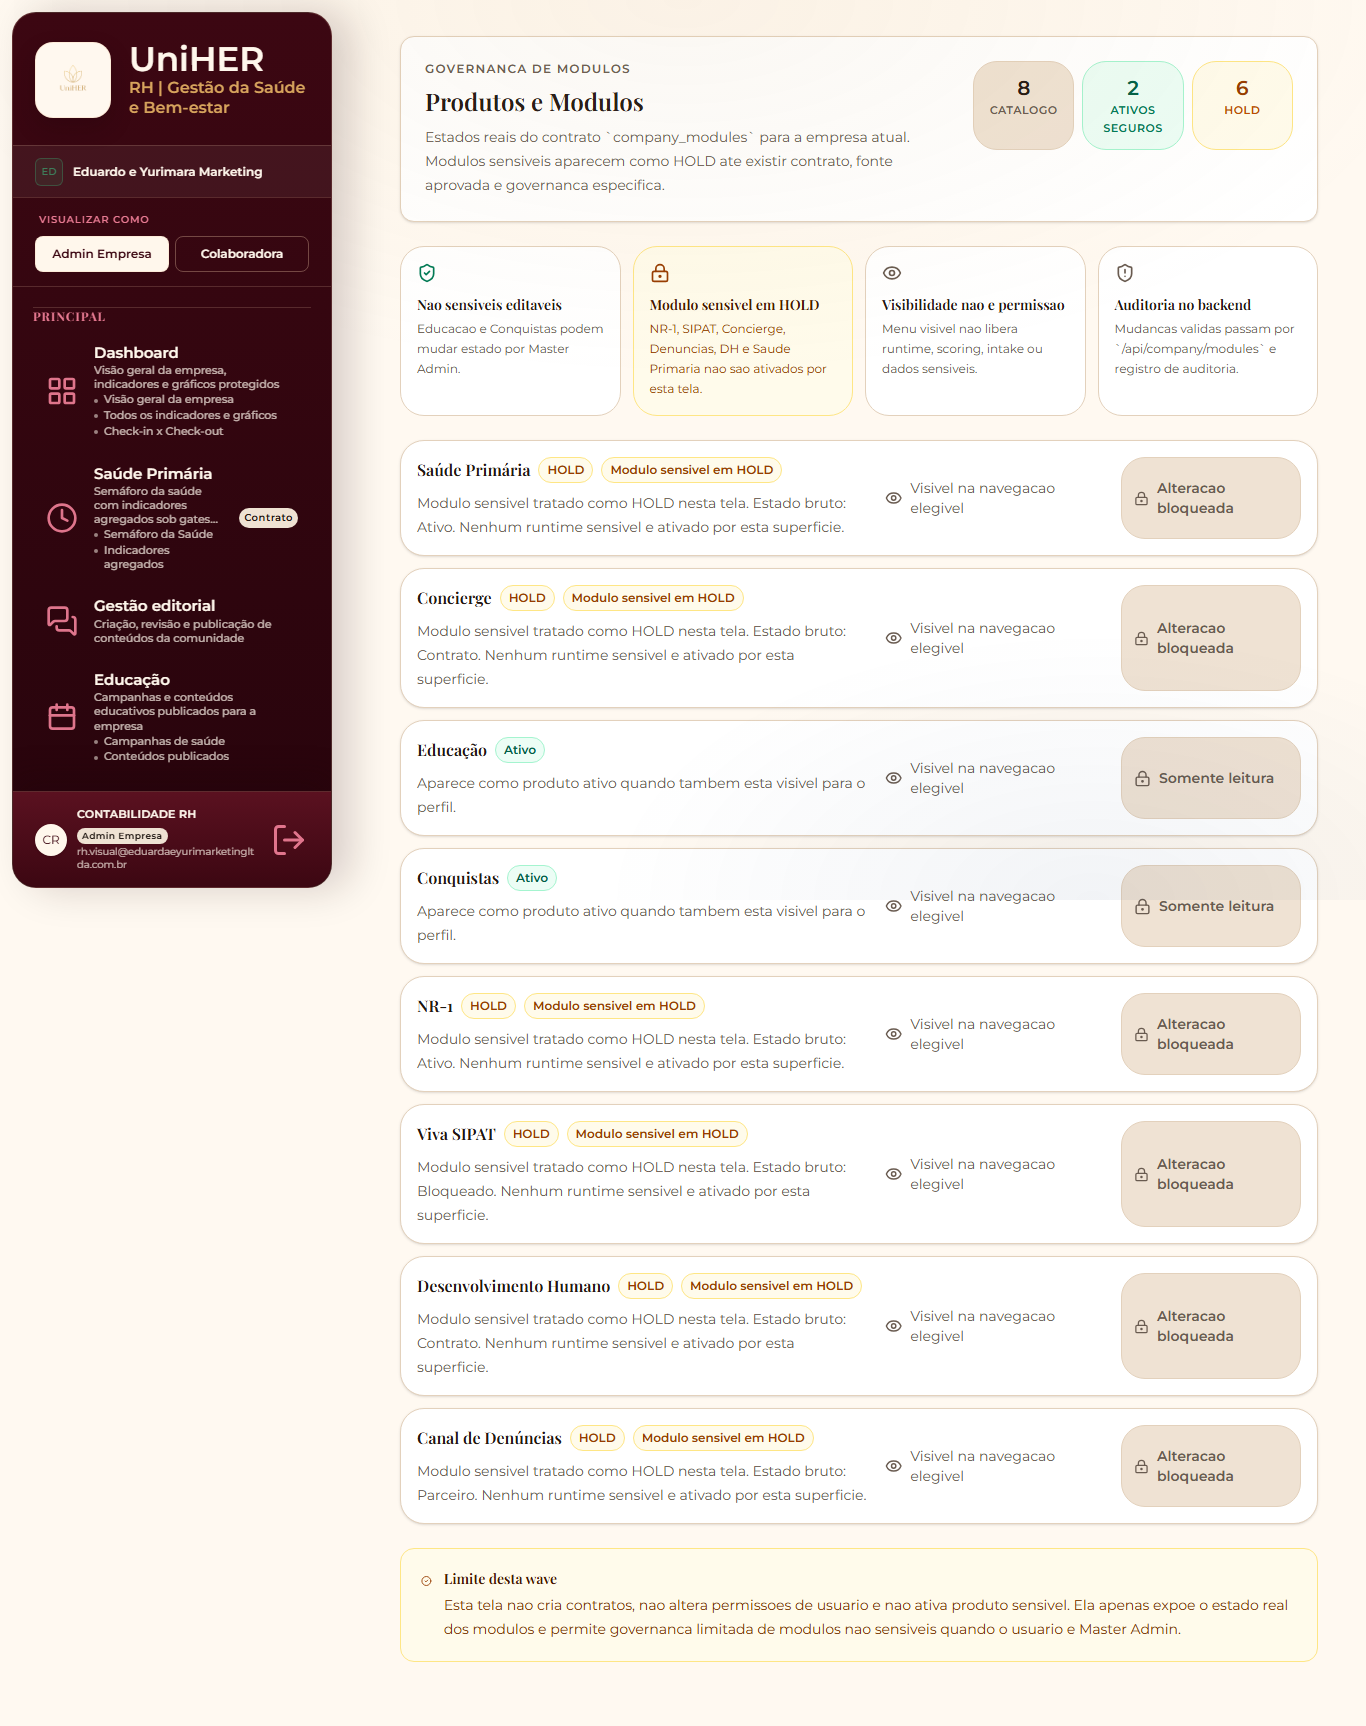
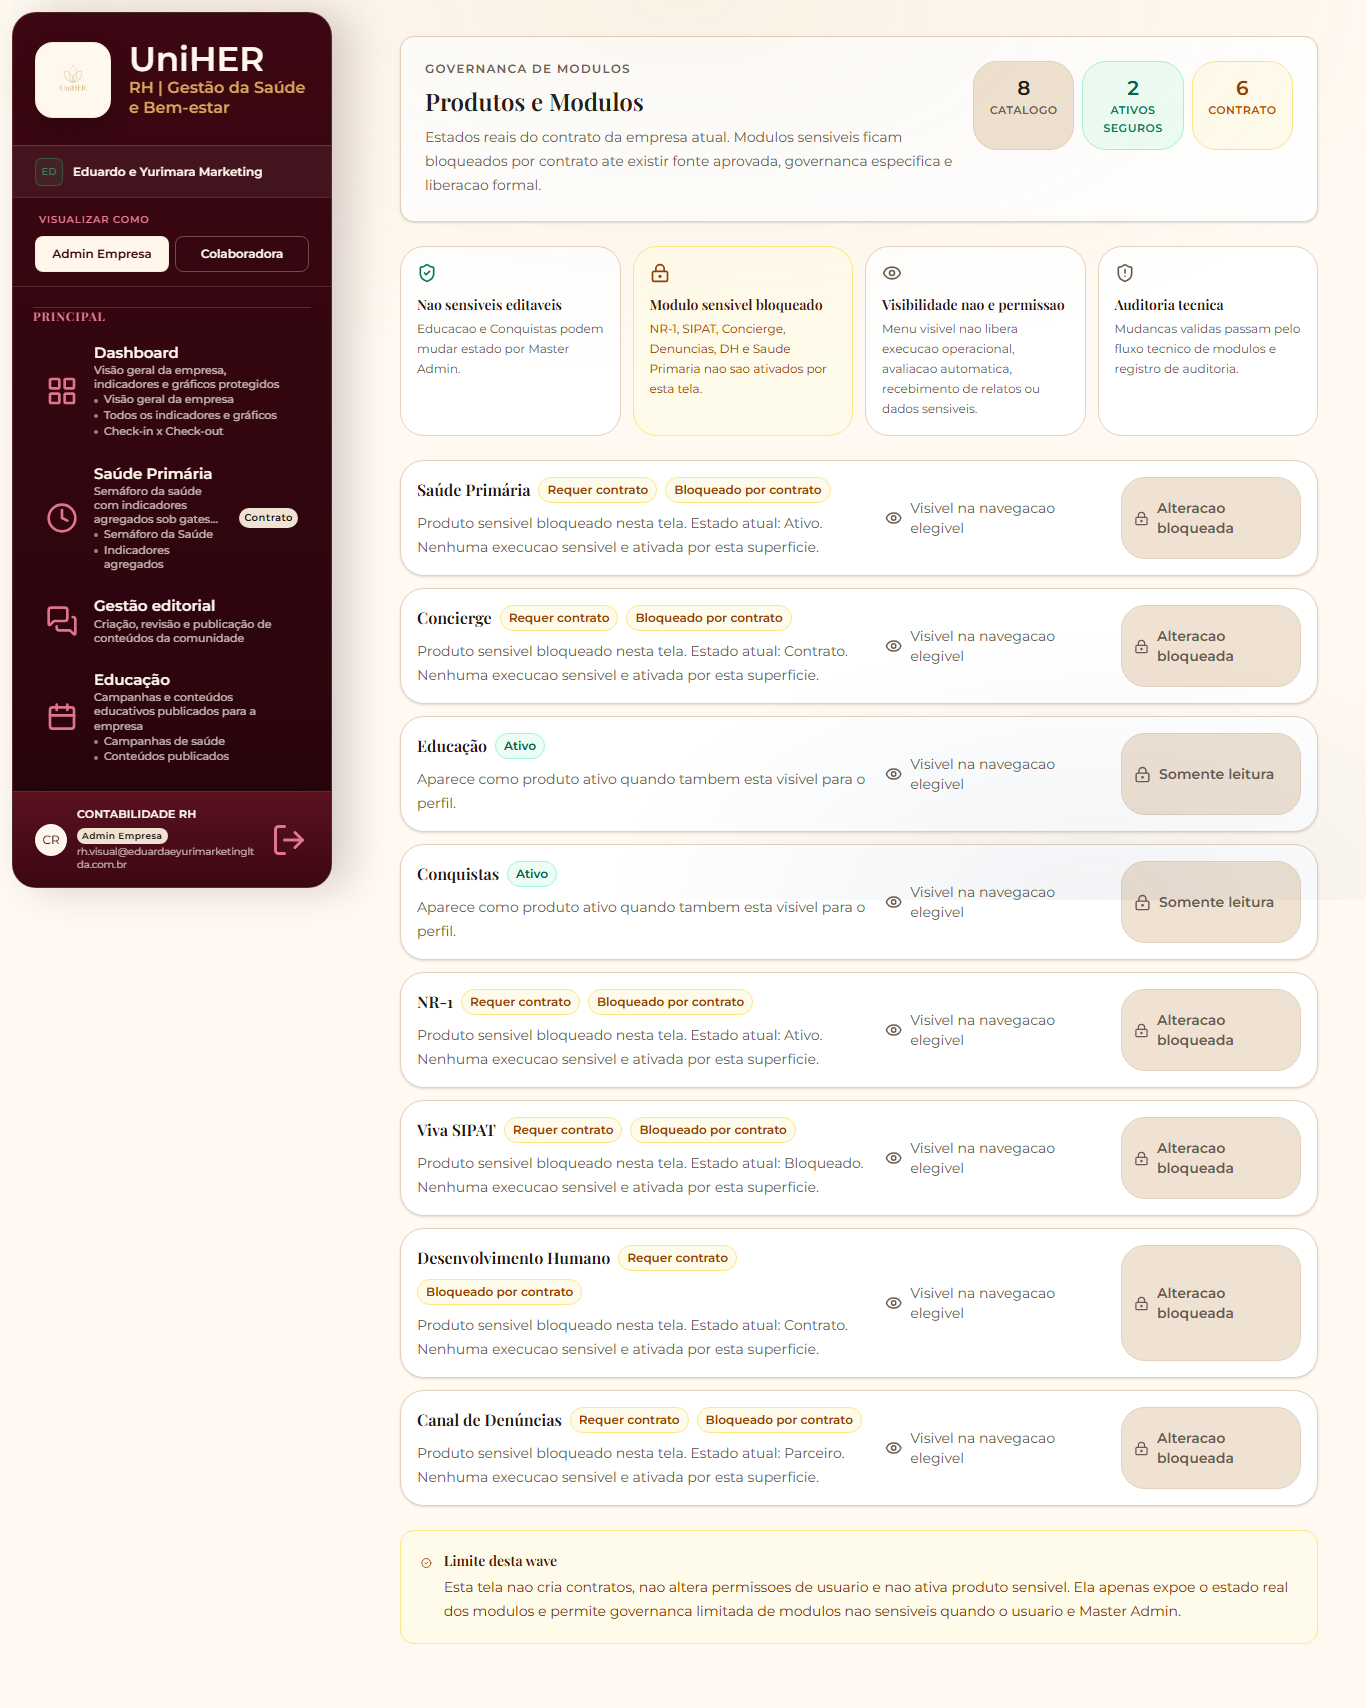
fix: harden product modules copy

diff --git a/src/app/(platform)/produtos-modulos/page.tsx b/src/app/(platform)/produtos-modulos/page.tsx
@@ -143,8 +143,8 @@ export default function ProdutosModulosPage() {
             <p className="text-xs font-semibold uppercase tracking-widest text-[var(--platform-muted)]">Governanca de modulos</p>
             <h1 className="text-2xl font-semibold text-[var(--platform-ink)]">Produtos e Modulos</h1>
             <p className="text-sm leading-6 text-[var(--platform-muted)]">
-              Estados reais do contrato `company_modules` para a empresa atual. Modulos sensiveis aparecem como HOLD ate existir contrato,
-              fonte aprovada e governanca especifica.
+              Estados reais do contrato da empresa atual. Modulos sensiveis ficam bloqueados por contrato ate existir fonte aprovada,
+              governanca especifica e liberacao formal.
             </p>
           </div>
 
@@ -159,7 +159,7 @@ export default function ProdutosModulosPage() {
             </div>
             <div className="rounded-lg border border-amber-200 bg-amber-50 px-3 py-3">
               <p className="text-xl font-semibold text-amber-800">{holdCount}</p>
-              <p className="text-[11px] font-semibold uppercase tracking-wider text-amber-700">HOLD</p>
+              <p className="text-[11px] font-semibold uppercase tracking-wider text-amber-700">Contrato</p>
             </div>
           </div>
         </div>
@@ -173,18 +173,18 @@ export default function ProdutosModulosPage() {
         </div>
         <div className="rounded-lg border border-amber-200 bg-amber-50 p-4">
           <LockKeyhole className="mb-3 text-amber-800" size={20} aria-hidden="true" />
-          <h2 className="text-sm font-semibold text-amber-950">Modulo sensivel em HOLD</h2>
+          <h2 className="text-sm font-semibold text-amber-950">Modulo sensivel bloqueado</h2>
           <p className="mt-1 text-xs leading-5 text-amber-800">NR-1, SIPAT, Concierge, Denuncias, DH e Saude Primaria nao sao ativados por esta tela.</p>
         </div>
         <div className="rounded-lg border border-[var(--platform-line)] bg-[var(--platform-surface)] p-4">
           <Eye className="mb-3 text-[var(--platform-muted)]" size={20} aria-hidden="true" />
           <h2 className="text-sm font-semibold text-[var(--platform-ink)]">Visibilidade nao e permissao</h2>
-          <p className="mt-1 text-xs leading-5 text-[var(--platform-muted)]">Menu visivel nao libera runtime, scoring, intake ou dados sensiveis.</p>
+          <p className="mt-1 text-xs leading-5 text-[var(--platform-muted)]">Menu visivel nao libera execucao operacional, avaliacao automatica, recebimento de relatos ou dados sensiveis.</p>
         </div>
         <div className="rounded-lg border border-[var(--platform-line)] bg-[var(--platform-surface)] p-4">
           <ShieldAlert className="mb-3 text-[var(--platform-muted)]" size={20} aria-hidden="true" />
-          <h2 className="text-sm font-semibold text-[var(--platform-ink)]">Auditoria no backend</h2>
-          <p className="mt-1 text-xs leading-5 text-[var(--platform-muted)]">Mudancas validas passam por `/api/company/modules` e registro de auditoria.</p>
+          <h2 className="text-sm font-semibold text-[var(--platform-ink)]">Auditoria tecnica</h2>
+          <p className="mt-1 text-xs leading-5 text-[var(--platform-muted)]">Mudancas validas passam pelo fluxo tecnico de modulos e registro de auditoria.</p>
         </div>
       </section>
 
@@ -211,17 +211,17 @@ export default function ProdutosModulosPage() {
                 <div className="flex flex-wrap items-center gap-2">
                   <h2 className="text-base font-semibold text-[var(--platform-ink)]">{definition?.label ?? module.module_slug}</h2>
                   <span className={`rounded-full border px-2 py-1 text-xs font-semibold ${sensitive ? 'border-amber-200 bg-amber-50 text-amber-800' : stateTone(module.module_state)}`}>
-                    {sensitive ? 'HOLD' : STATE_LABELS[module.module_state]}
+                    {sensitive ? 'Requer contrato' : STATE_LABELS[module.module_state]}
                   </span>
                   {sensitive && (
                     <span className="rounded-full border border-amber-200 bg-amber-50 px-2 py-1 text-xs font-semibold text-amber-800">
-                      Modulo sensivel em HOLD
+                      Bloqueado por contrato
                     </span>
                   )}
                 </div>
                 <p className="text-sm leading-6 text-[var(--platform-muted)]">
                   {sensitive
-                    ? `Modulo sensivel tratado como HOLD nesta tela. Estado bruto: ${STATE_LABELS[module.module_state]}. Nenhum runtime sensivel e ativado por esta superficie.`
+                    ? `Produto sensivel bloqueado nesta tela. Estado atual: ${STATE_LABELS[module.module_state]}. Nenhuma execucao sensivel e ativada por esta superficie.`
                     : STATE_HELP[module.module_state]}
                 </p>
               </div>

diff --git a/tests/e2e/platform-product-boundary.spec.ts b/tests/e2e/platform-product-boundary.spec.ts
@@ -111,7 +111,8 @@ const safeUsefulRoutes = [
     role: 'rh',
     path: '/produtos-modulos',
     title: /Produtos e M.dulos/i,
-    anchors: [/Estados reais do contrato/i, /Modulo sensivel em HOLD/i, /Nao sensiveis editaveis/i, /Auditoria no backend/i],
+    anchors: [/Estados reais do contrato/i, /Bloqueado por contrato/i, /Nao sensiveis editaveis/i, /Auditoria tecnica/i],
+    blockedText: /Modulo sensivel em HOLD|Auditoria no backend|\bcompany_modules\b|\bruntime\b|\bscoring\b|\bintake\b|\bHOLD\b/i,
   },
   {
     role: 'rh',
@@ -142,6 +143,7 @@ const safeUsefulRoutes = [
   path: string;
   title: RegExp;
   anchors: readonly RegExp[];
+  blockedText?: RegExp;
 }>;
 
 const unsafeOperationalControlText = /ativar modulo|habilitar modulo|iniciar avaliacao|aceitar e continuar|emitir laudo|gerar laudo|enviar denuncia|abrir chamado|\bresgatar\b|comprar recompensa/i;
@@ -301,6 +303,7 @@ test.describe('Platform product boundary smoke', () => {
       await page.goto(route.path, { waitUntil: 'domcontentloaded' });
       await expect(page.getByRole('heading', { name: route.title })).toBeVisible();
       await expectAnchors(page, route.anchors);
+      if ('blockedText' in route) await expect(page.locator('body')).not.toContainText(route.blockedText);
       await expectNoUnsafeControlsOrClaims(page);
     });
   }
@@ -315,7 +318,8 @@ test.describe('Platform product boundary smoke', () => {
     await page.setViewportSize({ width: 1366, height: 900 });
     await page.goto('/produtos-modulos', { waitUntil: 'domcontentloaded' });
     await expect(page.getByRole('heading', { name: /Produtos e M.dulos/i })).toBeVisible();
-    await expectAnchors(page, [/Estados reais do contrato/i, /Modulo sensivel em HOLD/i, /Auditoria no backend/i]);
+    await expectAnchors(page, [/Estados reais do contrato/i, /Bloqueado por contrato/i, /Auditoria tecnica/i]);
+    await expect(page.locator('body')).not.toContainText(/Modulo sensivel em HOLD|Auditoria no backend|\bcompany_modules\b|\bruntime\b|\bscoring\b|\bintake\b|\bHOLD\b/i);
     await expectNoUnsafeControlsOrClaims(page);
     await expectNoHorizontalOverflow(page);
     await page.screenshot({ path: path.join(evidenceDir, 'desktop-1366-produtos-modulos.png'), fullPage: true });
@@ -323,7 +327,8 @@ test.describe('Platform product boundary smoke', () => {
     await page.setViewportSize({ width: 390, height: 844 });
     await page.goto('/produtos-modulos', { waitUntil: 'domcontentloaded' });
     await expect(page.getByRole('heading', { name: /Produtos e M.dulos/i })).toBeVisible();
-    await expectAnchors(page, [/Modulo sensivel em HOLD/i, /Visibilidade nao e permissao/i]);
+    await expectAnchors(page, [/Bloqueado por contrato/i, /Visibilidade nao e permissao/i]);
+    await expect(page.locator('body')).not.toContainText(/Modulo sensivel em HOLD|Auditoria no backend|\bcompany_modules\b|\bruntime\b|\bscoring\b|\bintake\b|\bHOLD\b/i);
     await expectNoUnsafeControlsOrClaims(page);
     await expectNoHorizontalOverflow(page);
     await page.screenshot({ path: path.join(evidenceDir, 'mobile-390-produtos-modulos.png'), fullPage: true });
@@ -481,7 +486,7 @@ test.describe('Platform product boundary smoke', () => {
     await authenticatedPage(page, context, request, baseURL!, 'colaboradora');
 
     await page.goto('/avaliacao-nr1', { waitUntil: 'domcontentloaded' });
-    await page.waitForURL(/\/colaboradora$/, { timeout: 15000 });
+    await expect(page).toHaveURL(/\/colaboradora$/, { timeout: 15000 });
     await expect(page.getByRole('heading', { name: /Jornada privada/i })).toBeVisible();
     await expect(page.locator('body')).not.toContainText(/Preview tecnico restrito|Preview t.cnico restrito|Previa indisponivel|Runtime Yavix indisponivel|permanece bloqueado fora de dev\/test/i);
     await expect(page.locator('body')).not.toContainText(/Contrato pendente|Permanece bloqueado|Shell estatico sem chamadas Yavix|COPSOQ/i);

diff --git a/tests/unit/module-shells.test.ts b/tests/unit/module-shells.test.ts
@@ -147,7 +147,14 @@ describe('Paola P3 locked module shells', () => {
     expect(source).toContain("useSWR<CompanyModulesResponse>('/api/company/modules'");
     expect(source).toContain('/api/company/modules');
     expect(source).toContain('SENSITIVE_MODULE_SLUGS');
-    expect(source).toContain('Modulo sensivel em HOLD');
+    expect(source).toContain('Bloqueado por contrato');
+    expect(source).toContain('Auditoria tecnica');
+    expect(source).not.toContain('Modulo sensivel em HOLD');
+    expect(source).not.toContain('Auditoria no backend');
+    expect(source).not.toMatch(/\bcompany_modules\b/);
+    expect(source).not.toMatch(/\bruntime\b/i);
+    expect(source).not.toMatch(/\bscoring\b/i);
+    expect(source).not.toMatch(/\bintake\b/i);
     expect(source).toContain('canEditNonSensitiveModules');
     expect(source).toContain('isMasterAdmin');
   });

diff --git a/docs/superpowers/audits/2026-07-30-produtos-modulos-copy-hardening.md b/docs/superpowers/audits/2026-07-30-produtos-modulos-copy-hardening.md
@@ -1,0 +1,44 @@
+# Produtos e Modulos copy hardening
+
+Date: 2026-07-30
+Commit target: pending
+
+## Decision
+
+LOCAL PASS. Production deploy and smoke remain pending.
+
+## Scope
+
+- Intent: remove visible spec/internal jargon from the authenticated real `/produtos-modulos` surface.
+- Allowlist: `/produtos-modulos`, platform boundary tests, unit shell tests, this goal plan, local screenshots.
+- Denylist: public landing, marketing routes, `public`, sensitive module activation, NR-1/Yavix runtime, Denuncias intake, Concierge workflow, SIPAT operation, DH trails, Liga/ranking/rewards.
+
+## Changes
+
+- Replaced visible `HOLD`, `company_modules`, backend, runtime, scoring and intake wording with product-facing Portuguese.
+- Kept the existing company module fetch/update contract and Master Admin non-sensitive edit rule unchanged.
+- Kept sensitive modules blocked with `Requer contrato` / `Bloqueado por contrato` copy.
+- Hardened unit and Playwright canaries against reintroducing internal jargon.
+- Changed the NR-1 redirect E2E wait from `waitForURL` to `expect(page).toHaveURL` after one observed load-event timeout where logs showed the redirect had reached `/colaboradora`.
+
+## Verification
+
+- RED: `npm run test:unit -- tests/unit/module-shells.test.ts` failed before implementation on missing `Bloqueado por contrato`.
+- GREEN: `npm run test:unit -- tests/unit/module-shells.test.ts tests/unit/nr1-runtime-entitlement.test.ts tests/unit/nr1-preview-state.test.ts tests/unit/platform/navigation.test.ts` passed, 4 files / 58 tests.
+- E2E: `npx playwright test --config=tests/playwright.config.ts --project=platform-product-boundary` passed, 22/22.
+- Typecheck: `npx tsc --noEmit` passed.
+- Build: `npm run build` passed.
+- Diff check: `git diff --check` passed.
+- Landing denylist: `git diff --name-only -- src/app/page.tsx 'src/app/(marketing)' src/components/landing public` returned empty.
+- Grep: no `HOLD`, `company_modules`, `runtime`, `scoring`, `intake`, `Auditoria no backend` or `Modulo sensivel em HOLD` remains in `src/app/(platform)/produtos-modulos/page.tsx`.
+- Claude review: first pass found no blocking findings and suggested test hardening; second pass returned no blocking findings.
+
+## Evidence
+
+- `docs/superpowers/evidence/produtos-modulos-ui-local-2026-07-30/desktop-1366-produtos-modulos.png`
+- `docs/superpowers/evidence/produtos-modulos-ui-local-2026-07-30/mobile-390-produtos-modulos.png`
+
+## Residual Risk
+
+- This wave changes only copy and tests. It does not close product contracts for sensitive modules.
+- Production must still be deployed and smoked before the wave is considered production PASS.

diff --git a/docs/superpowers/plans/2026-07-30-uniher-no-specs-authenticated-recovery-goal.md b/docs/superpowers/plans/2026-07-30-uniher-no-specs-authenticated-recovery-goal.md
@@ -89,6 +89,15 @@ Direct module URLs for products without approved runtime contracts were still sh
 - only explicitly mocked dev/test runtime can render `CopsoqFlow`;
 - no production COPSOQ, Yavix integration, laudo, scoring, GRO/PGR or technical unavailable shell is introduced.
 
+## Current Produtos e Modulos copy hardening wave
+
+`/produtos-modulos` is already the real company module status surface, but the authenticated UI still exposed internal implementation/governance jargon. The safe implementation is copy hardening only:
+
+- user-facing copy says `Bloqueado por contrato` / `Requer contrato` instead of `HOLD`;
+- user-facing copy says contract, technical audit, operational execution, automatic evaluation and sensitive data receipt instead of `company_modules`, backend, runtime, scoring or intake;
+- the governance decision in this plan remains HOLD for sensitive modules, but the product UI avoids internal jargon;
+- no sensitive module activation, permission change, API behavior, landing change or new runtime is introduced.
+
 ## Remaining authenticated spec inventory
 
 | Surface | Decision |
